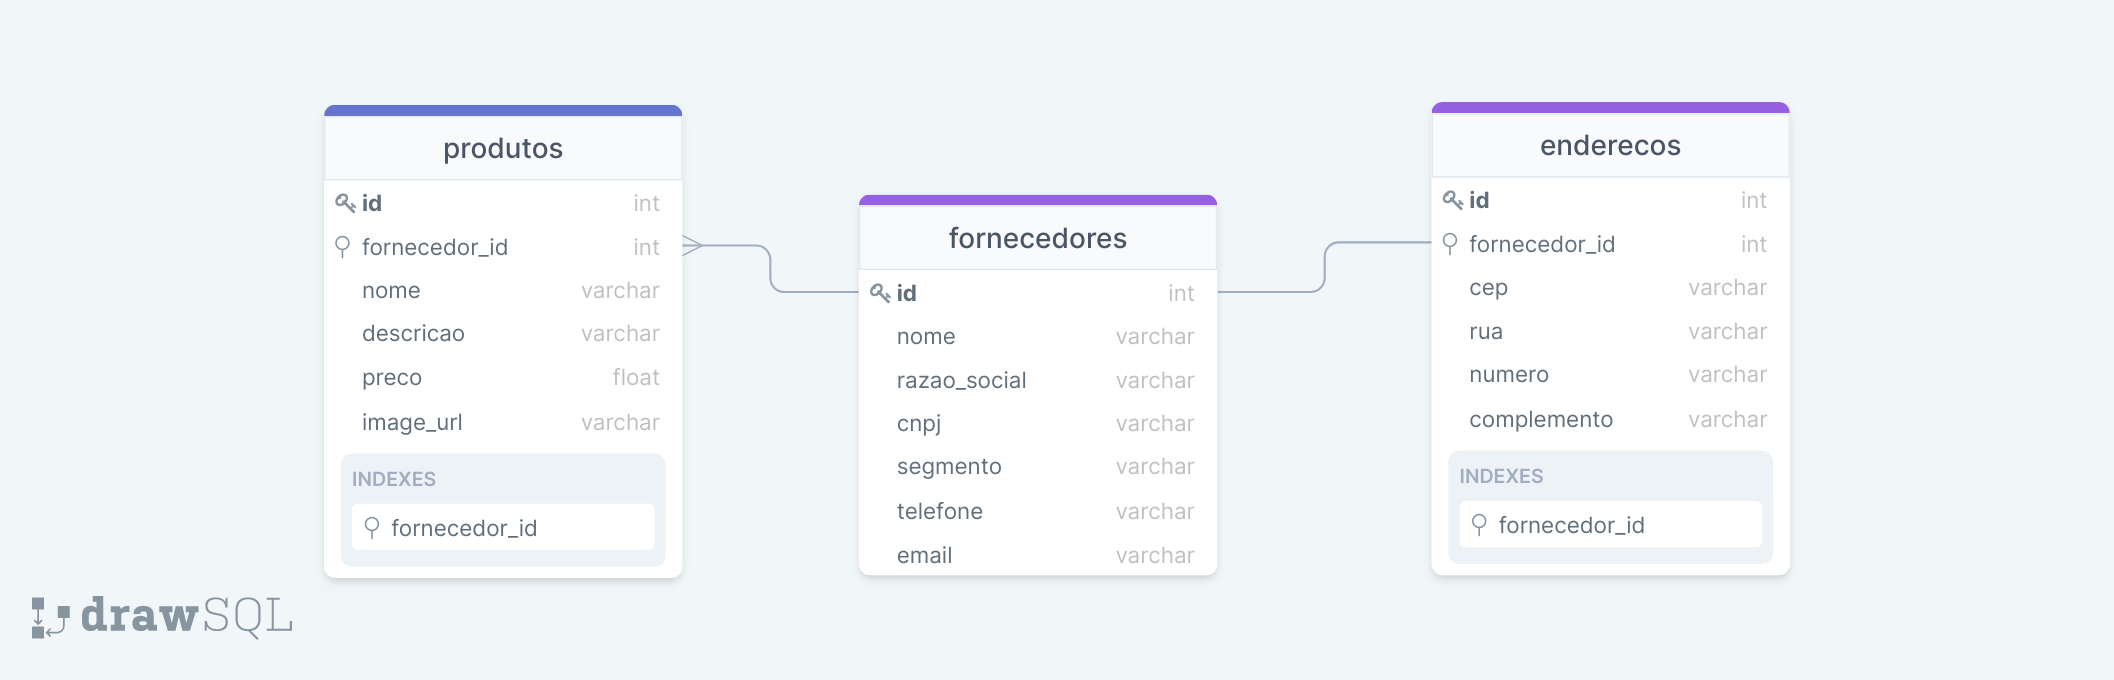
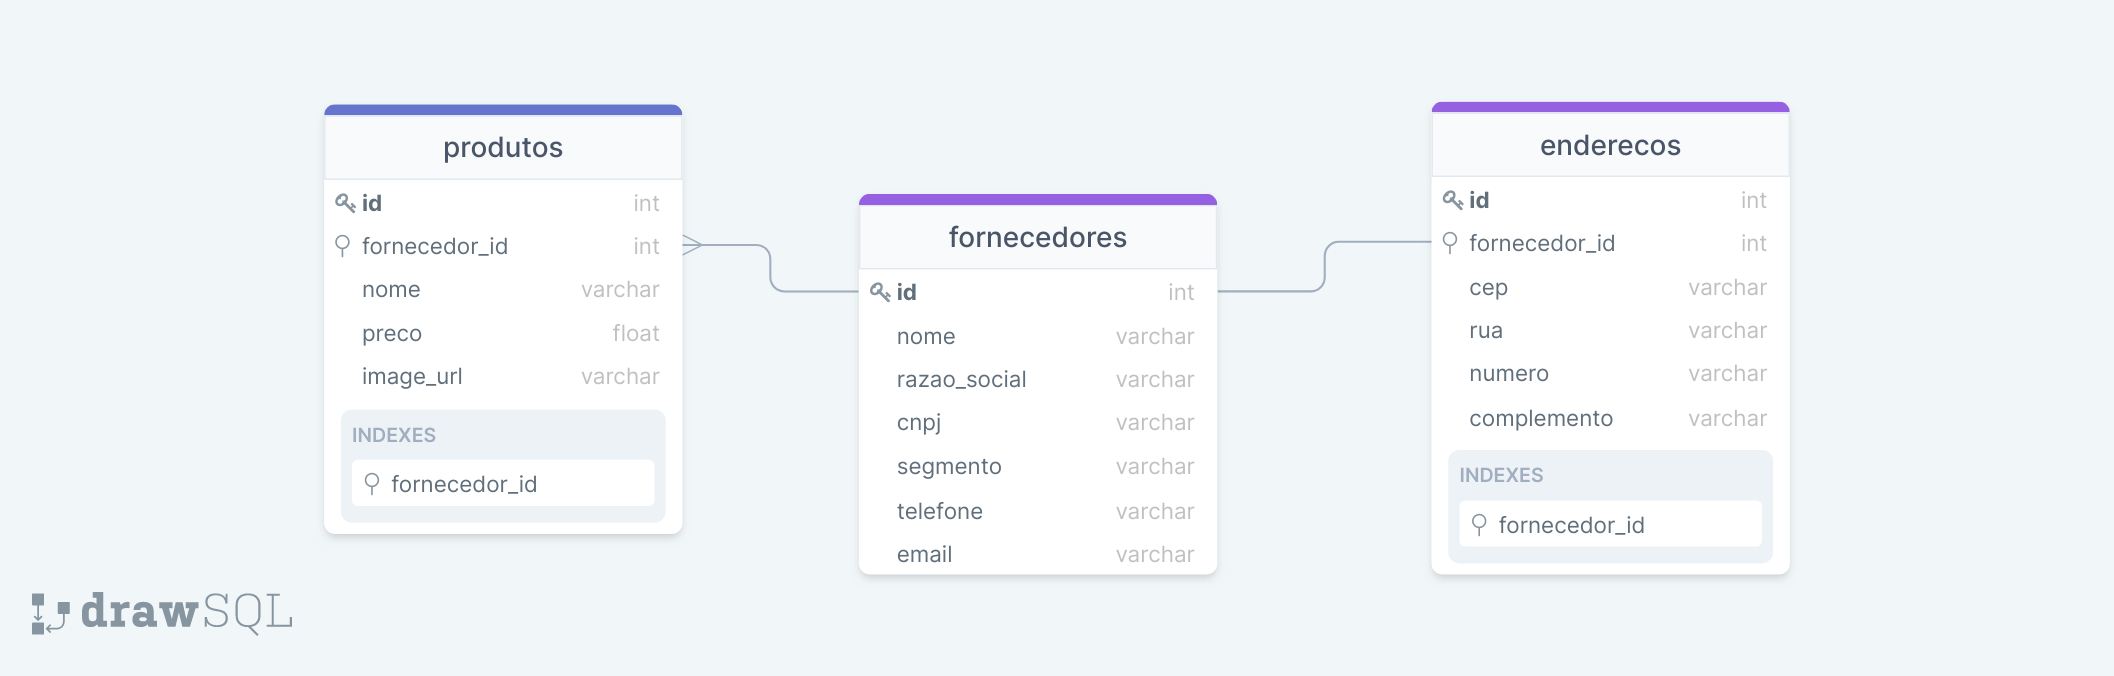
- Removed descricao from Produtos table - And updated the db model according to the change
- Created seeds

- Created IProduto interface

diff --git a/src/shared/knex/seeds/03-produtos.ts b/src/shared/knex/seeds/03-produtos.ts
@@ -1,0 +1,150 @@
+import { Knex } from 'knex';
+
+export async function seed(knex: Knex): Promise<void> {
+  await knex('produtos').insert([
+    {
+      id: 1,
+      fornecedor_id: 1,
+      nome: 'EN BLOCK SOFÁ-CAMA 3 LUGARES',
+      image_url:
+        'https://tokstok.vtexassets.com/arquivos/ids/2217685-553-553/block-sofa-cama-3-lugares-noriker-deserto-en-block_st0.jpg?v=637243060113970000',
+      preco: 3299.0
+    },
+    {
+      id: 2,
+      fornecedor_id: 1,
+      nome: 'SIDE SOFÁ-CAMA 3 LUGARES',
+      image_url:
+        'https://tokstok.vtexassets.com/arquivos/ids/1791150-553-553/Sofa-cama-3-Lugares-Lowvel-Caqui-Side.jpg?v=637009021660470000',
+      preco: 3399.0
+    },
+    {
+      id: 3,
+      fornecedor_id: 1,
+      nome: 'CLAP SOFÁ-CAMA 3 LUGARES',
+      image_url:
+        'https://tokstok.vtexassets.com/arquivos/ids/2218023-553-553/sofa-cama-3-lugares-plain-cinza-clap_st3.jpg?v=637243072175770000',
+      preco: 2799.0
+    },
+    {
+      id: 4,
+      fornecedor_id: 2,
+      nome: 'BAMBOO KIT UTENSÍLIOS 4 PÇS',
+      image_url:
+        'https://tokstok.vtexassets.com/arquivos/ids/1746008-553-553/Kit-Utensilios-4-Pcs-Natural-Bamboo.jpg?v=637000984879870000',
+      preco: 35.9
+    },
+    {
+      id: 5,
+      fornecedor_id: 2,
+      nome: 'BAMBOO TÁBUA 36 CM X 26 CM',
+      image_url:
+        'https://tokstok.vtexassets.com/arquivos/ids/1746012-553-553/Tabua-36-Cm-X-26-Cm-Natural-Bamboo.jpg?v=637000984882070000',
+      preco: 95.9
+    },
+    {
+      id: 6,
+      fornecedor_id: 2,
+      nome: 'CHILLI FRIGIDEIRA 24 CM',
+      image_url:
+        'https://tokstok.vtexassets.com/arquivos/ids/2327612-553-553/frigideira-24-cm-prata-chilli_st2.jpg?v=637361011237330000',
+      preco: 69.9
+    },
+    {
+      id: 7,
+      fornecedor_id: 3,
+      nome: 'BRASÃO ESPELHO 36 CM X 25 CM',
+      image_url:
+        'https://tokstok.vtexassets.com/arquivos/ids/1875664-553-553/espelho-36-cm-x-25-cm-castanho-bras-o_st0.jpg?v=637044659725730000',
+      preco: 169.9
+    },
+    {
+      id: 8,
+      fornecedor_id: 3,
+      nome: 'YOU ME ESPELHO DECORATIVO 39 CM X 25 CM',
+      image_url:
+        'https://tokstok.vtexassets.com/arquivos/ids/1860399-553-553/Espelho-Decorativo-39-Cm-X-25-Cm-Prata-You-me.jpg?v=637020914421770000',
+      preco: 189.9
+    },
+    {
+      id: 9,
+      fornecedor_id: 3,
+      nome: 'PELICANO ESPELHO REDONDO 60 CM',
+      image_url:
+        'https://tokstok.vtexassets.com/arquivos/ids/2222751-553-553/espelho-red-60-cm-whisky-preto-pelicano_st0.jpg?v=637256466863900000',
+      preco: 539.0
+    },
+    {
+      id: 10,
+      fornecedor_id: 4,
+      nome: 'VERTUS CORTINA 2 PC 1,40 M X 2,30 M',
+      image_url:
+        'https://tokstok.vtexassets.com/arquivos/ids/2487923-553-553/cortina-2-pc-140-m-x-230-m-natural-vertus_st0.jpg?v=637534897333930000',
+      preco: 89.9
+    },
+    {
+      id: 11,
+      fornecedor_id: 4,
+      nome: 'TIE CORTINA 2PCS 1,50 M X 2,20 M',
+      image_url:
+        'https://tokstok.vtexassets.com/arquivos/ids/2452383-553-553/CORTINA-2PCS-150-M-X-220-M_189317_amb.jpg?v=637465560075570000',
+      preco: 97.9
+    },
+    {
+      id: 12,
+      fornecedor_id: 4,
+      nome: 'VESTIGE CORTINA 2PCS 1,40 M X 2,50 M',
+      image_url:
+        'https://tokstok.vtexassets.com/arquivos/ids/2452612-553-553/CORTINA-2PCS-140-M-X-250-M_189382_amb.jpg?v=637465584445970000',
+      preco: 259.9
+    },
+    {
+      id: 13,
+      fornecedor_id: 5,
+      nome: 'BLAYET TAÇA BORDEAUX 630 ML',
+      image_url:
+        'https://tokstok.vtexassets.com/arquivos/ids/2314931-553-553/taca-bordeaux-630-ml-incolor-blayet_st0.jpg?v=637348935409670000',
+      preco: 9.9
+    },
+    {
+      id: 14,
+      fornecedor_id: 5,
+      nome: 'JUJU BALEIRO MED.',
+      image_url:
+        'https://tokstok.vtexassets.com/arquivos/ids/1816541-553-553/Baleiro-Med-Verde-aluminio-Juju.jpg?v=637013203647270000',
+      preco: 222.9
+    },
+    {
+      id: 15,
+      fornecedor_id: 5,
+      nome: 'FLUTUANTES VASO 39 CM',
+      image_url:
+        'https://tokstok.vtexassets.com/arquivos/ids/1853417-553-553/Vaso-39-Cm-Verde-Flutuantes.jpg?v=637019369716270000',
+      preco: 169.9
+    },
+    {
+      id: 16,
+      fornecedor_id: 6,
+      nome: 'SET PUFF',
+      image_url:
+        'https://tokstok.vtexassets.com/arquivos/ids/1857462-553-553/Pufe-Corsin-Preto-Set.jpg?v=637020162238000000',
+      preco: 99.99
+    },
+    {
+      id: 17,
+      fornecedor_id: 6,
+      nome: 'TALK CADEIRA',
+      image_url:
+        'https://tokstok.vtexassets.com/arquivos/ids/2193112-553-553/cadeira-preto-preto-talk_st0.jpg?v=637214996426600000',
+      preco: 139.99
+    },
+    {
+      id: 18,
+      fornecedor_id: 6,
+      nome: 'LINO GAVETEIRO 3 GAVETAS',
+      image_url:
+        'https://tokstok.vtexassets.com/arquivos/ids/1858044-553-553/Gaveteiro-3gv-Preto-branco-Lino.jpg?v=637020197055800000',
+      preco: 459.99
+    }
+  ]);
+}

diff --git a/src/shared/knex/seeds/01-fornecedores.ts b/src/shared/knex/seeds/01-fornecedores.ts
@@ -1,0 +1,60 @@
+import { Knex } from 'knex';
+
+export async function seed(knex: Knex): Promise<void> {
+  await knex('fornecedores').insert([
+    {
+      id: 1,
+      nome: 'Casa do sofá',
+      razao_social: 'casa dos sofas ltda',
+      cnpj: '12.345.678/0001-00',
+      segmento: 'móveis',
+      telefone: '(11) 91234-5678',
+      email: 'comercial@casadosofa.com.br'
+    },
+    {
+      id: 2,
+      nome: 'Mundo da Cozinha',
+      razao_social: 'mundo cozinha ltda',
+      cnpj: '12.345.678/0001-01',
+      segmento: 'decoração',
+      telefone: '(11) 91234-1234',
+      email: 'comercial@mundodacozinha.com.br'
+    },
+    {
+      id: 3,
+      nome: 'Planeta espelhos',
+      razao_social: 'planeta espelhos ltda',
+      cnpj: '12.345.678/0001-02',
+      segmento: 'decoração e utensílios',
+      telefone: '(11) 91234-3453',
+      email: 'contato@planetaespelhos.com.br'
+    },
+    {
+      id: 4,
+      nome: 'Cortinas Center',
+      razao_social: 'cortinas center ltda',
+      cnpj: '12.345.678/0001-03',
+      segmento: 'decoração e utensílios',
+      telefone: '(11) 91234-7852',
+      email: 'contato@cortinascenter.com.br'
+    },
+    {
+      id: 5,
+      nome: 'Salão do vidro',
+      razao_social: 'salao vidro ltda',
+      cnpj: '12.345.678/0001-04',
+      segmento: 'utensílios',
+      telefone: '(11) 91234-6745',
+      email: 'vendas@salaodovidro.com.br'
+    },
+    {
+      id: 6,
+      nome: 'Point do escritório',
+      razao_social: 'point escritorio ltda',
+      cnpj: '12.345.678/0001-05',
+      segmento: 'materiais de escritório',
+      telefone: '(11) 91234-9301',
+      email: 'pointdoescritorio@gmail.com'
+    }
+  ]);
+}

diff --git a/src/shared/knex/seeds/02-enderecos.ts b/src/shared/knex/seeds/02-enderecos.ts
@@ -1,0 +1,50 @@
+import { Knex } from 'knex';
+
+export async function seed(knex: Knex): Promise<void> {
+  await knex('enderecos').insert([
+    {
+      id: 1,
+      fornecedor_id: 1,
+      cep: '64014-050',
+      rua: 'Rua Governador Tibério Nunes',
+      numero: '56',
+      complemento: 'A'
+    },
+    {
+      id: 2,
+      fornecedor_id: 2,
+      cep: '64016-700',
+      rua: 'Rua Doutor Area Leão',
+      numero: '61',
+      complemento: '4B'
+    },
+    {
+      id: 3,
+      fornecedor_id: 3,
+      cep: '03511-060',
+      rua: 'Praça Dom Duarte Leopoldo',
+      numero: 'SQS 215'
+    },
+    {
+      id: 4,
+      fornecedor_id: 4,
+      cep: '03511-060',
+      rua: 'Praça Octacílio Pereira',
+      numero: '68'
+    },
+    {
+      id: 5,
+      fornecedor_id: 5,
+      cep: '03514-060',
+      rua: 'Praça Largo do Peixe',
+      numero: '89'
+    },
+    {
+      id: 6,
+      fornecedor_id: 6,
+      cep: '03511-060',
+      rua: 'Praça Rui Corá',
+      numero: '23'
+    }
+  ]);
+}

diff --git a/src/modules/produtos/ListProdutos.ts b/src/modules/produtos/ListProdutos.ts
@@ -1,19 +1,13 @@
 import { Request, Response } from 'express';
 import query from '../../shared/knex/knex';
-
-interface IProduto {
-  nome: string;
-  descricao: string;
-  image_url: string;
-  preco: number;
-}
+import { IProduto } from './interfaces/produto.interface';
 
 class ListProdutos {
   async execute(request: Request, response: Response) {
     const { fornecedor_id } = request.params;
 
     const produtos: IProduto[] = await query('produtos').where({
-      fornecedor_id,
+      fornecedor_id
     });
 
     return response.status(200).json(produtos);

diff --git a/src/shared/knex/migrations/20210724220927_remove-descricao-from-produtos.ts b/src/shared/knex/migrations/20210724220927_remove-descricao-from-produtos.ts
@@ -1,0 +1,12 @@
+import { Knex } from 'knex';
+
+export async function up(knex: Knex): Promise<void> {
+  return knex.schema.table('produtos', (table) => {
+    table.dropColumn('descricao');
+  });
+}
+export async function down(knex: Knex): Promise<void> {
+  return knex.schema.table('produtos', (table) => {
+    table.string('descricao').notNullable();
+  });
+}

diff --git a/src/modules/produtos/interfaces/produto.interface.ts b/src/modules/produtos/interfaces/produto.interface.ts
@@ -1,0 +1,6 @@
+export interface IProduto {
+  nome: string;
+  image_url: string;
+  preco: number;
+  fornecedor_id: number;
+}
